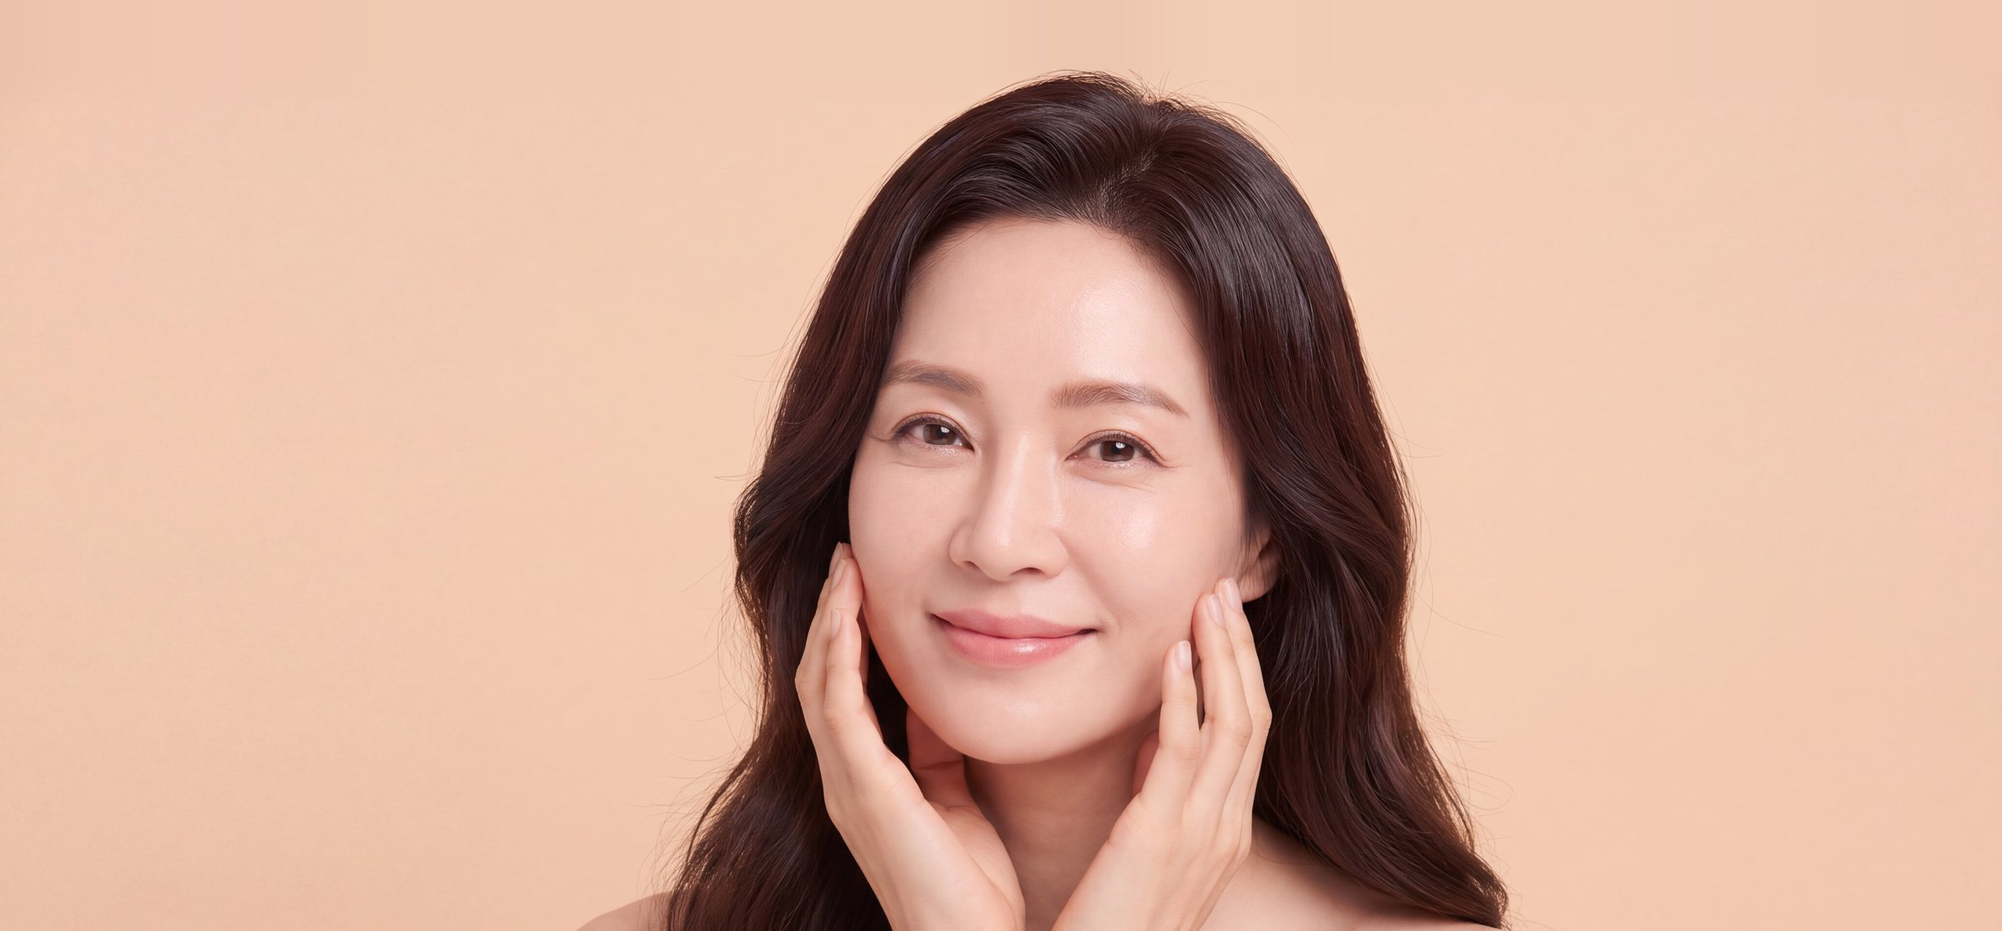
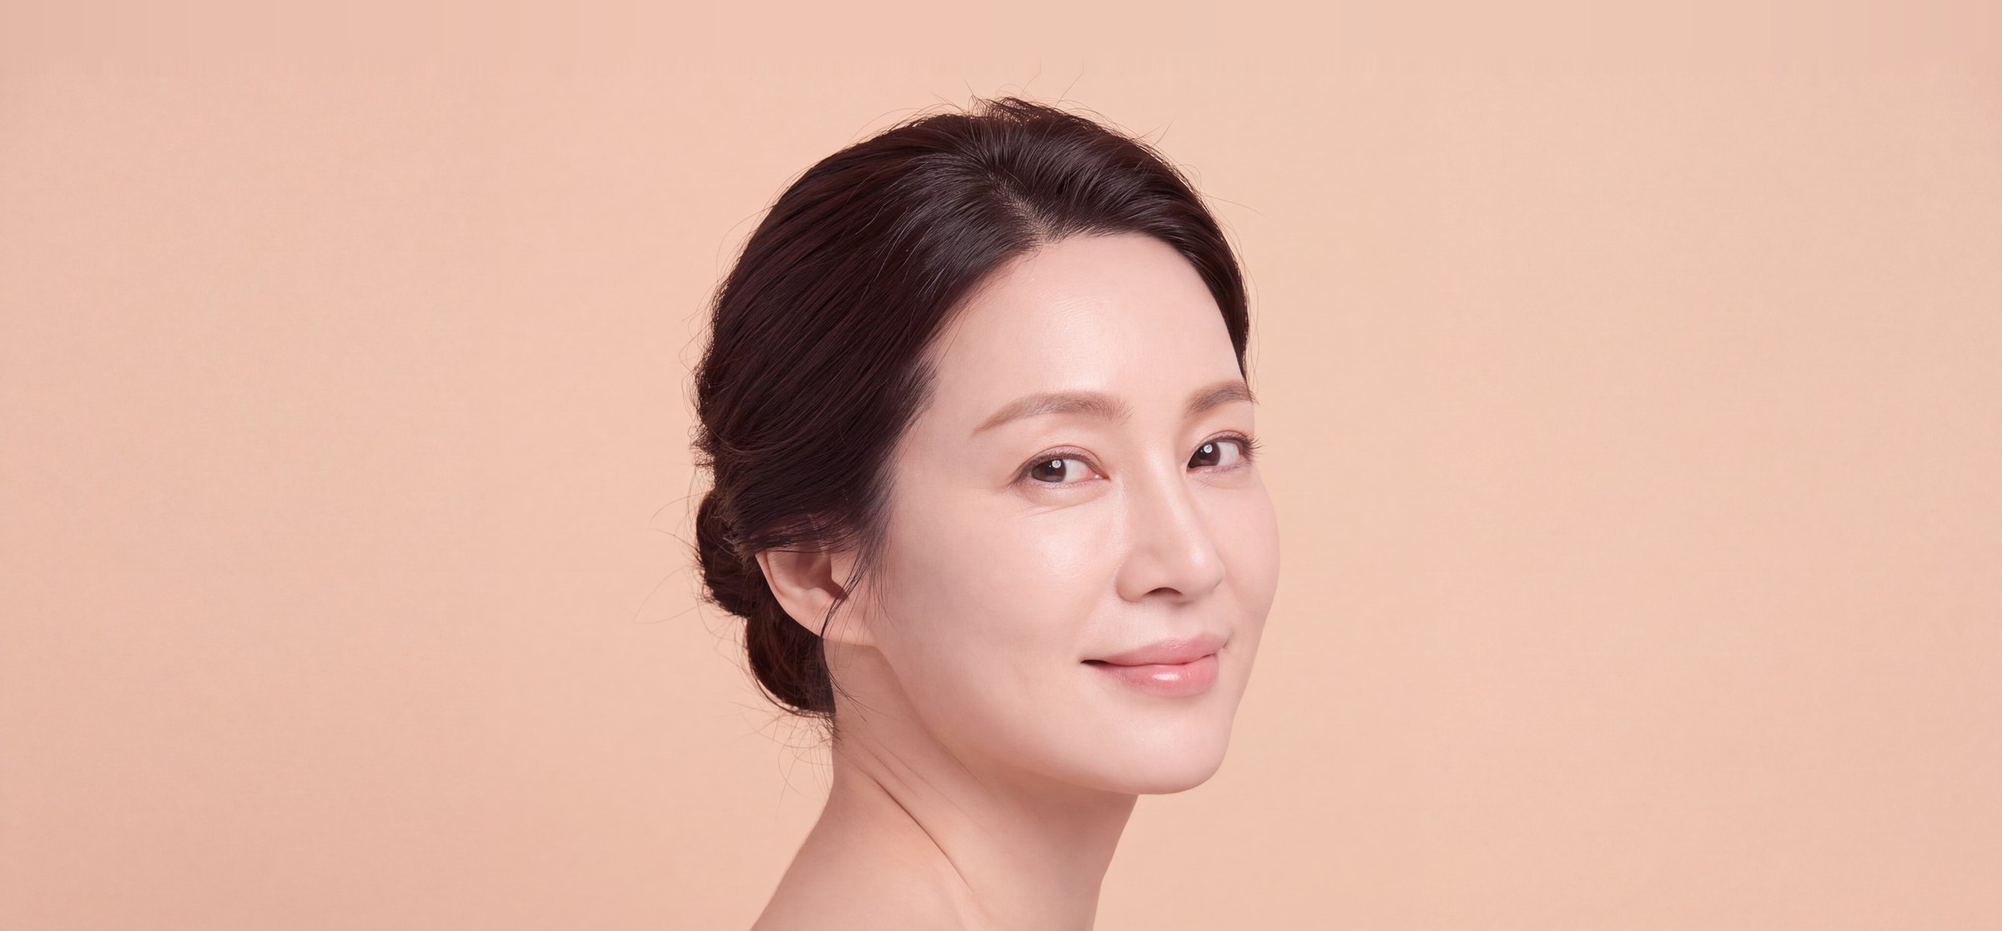
3D 디바이스 긁힘 제거(위치 기반 재질), 모델 컷 이미지생성3으로 교체

Changed region(s): [[0.2812, 0.0609, 0.7812, 1.0]]

diff --git a/js/device-material.js b/js/device-material.js
@@ -1,0 +1,62 @@
+/* =========================================================
+   TechFit 3D 재질 정리
+   Meshy 텍스처는 조각마다 명암·긁힘이 구워져 있어 돌릴 때 상처처럼 보인다.
+   그래서 색·광택을 텍스처 대신 '기기 표면 위치'로 정한다.
+     · 헤드(위쪽 캡) · 정면 버튼 패널과 은색 띠 · 뒷면 띠 → 은색 금속
+     · 정면 화면, 버튼 아이콘                         → 원본 텍스처 그대로
+     · 나머지 본체                                      → 균일한 흰색
+   위치 기준은 모델 높이를 -1~1로 본 값 (tools/repaint_glb.py와 같은 수치).
+   ========================================================= */
+export function cleanDeviceMaterial(model, THREE) {
+  const box = new THREE.Box3().setFromObject(model);
+  const half = (box.max.y - box.min.y) / 2;
+  const cy = (box.max.y + box.min.y) / 2;
+
+  model.traverse(o => {
+    if (!o.isMesh) return;
+    const m = o.material;
+    m.normalMap = null;           /* 조각 테두리가 새겨진 노멀맵은 끈다 */
+    m.metalnessMap = null;
+    m.roughnessMap = null;
+    m.metalness = 1; m.roughness = 1;
+    m.onBeforeCompile = sh => {
+      sh.uniforms.uHalf = { value: half };
+      sh.uniforms.uCy = { value: cy };
+      sh.vertexShader = sh.vertexShader
+        .replace('#include <common>', '#include <common>\nvarying vec3 vObj;')
+        .replace('#include <begin_vertex>', '#include <begin_vertex>\nvObj = position;');
+      sh.fragmentShader = sh.fragmentShader
+        .replace('#include <common>', `#include <common>
+varying vec3 vObj;
+uniform float uHalf, uCy;
+float gSilver, gScreen;
+float band(float v, float lo, float hi, float e) { return smoothstep(lo - e, lo + e, v) * (1.0 - smoothstep(hi - e, hi + e, v)); }`)
+        .replace('#include <map_fragment>', `#include <map_fragment>
+{
+  float e = 0.006;
+  float y = (vObj.y - uCy) / uHalf;                    /* -1 아래 끝 ~ 1 위 끝 */
+  float a = abs(atan(vObj.x, vObj.z)) / PI;           /* 0 정면 가운데 ~ 1 뒷면 가운데 */
+  float head = smoothstep(0.6875 - e, 0.6875 + e, y);
+  float screen = (1.0 - smoothstep(0.133 - e, 0.133 + e, a)) * band(y, 0.344, 0.667, e) * (1.0 - head);
+  float hw = y >= 0.139 ? 0.135 : 0.042 + 0.093 * smoothstep(0.0, 0.139, y);
+  float front = (1.0 - smoothstep(hw - e, hw + e, a)) * (1.0 - head) * (1.0 - screen);
+  float back = smoothstep(0.96 - e, 0.96 + e, a) * (1.0 - head);
+  float silver = clamp(head + front + back, 0.0, 1.0);
+  float white = clamp(1.0 - silver - screen, 0.0, 1.0);
+  float texL = dot(diffuseColor.rgb, vec3(0.3333));
+  float icon = front * step(0.139, y) * (1.0 - smoothstep(0.15, 0.4, texL));    /* 버튼 아이콘 선 */
+  /* 'TECH FIT' 세로 글자 — 아래쪽, 정면·뒷면 띠 오른쪽 */
+  float zone = band(y, -0.87, -0.61, 0.02) * max(band(a, 0.03, 0.18, 0.015), band(a, 0.8, 0.95, 0.015));
+  float text = zone * white * (1.0 - smoothstep(0.5, 0.8, texL));
+  vec3 col = white * vec3(0.855, 0.855, 0.84) + silver * vec3(0.55, 0.56, 0.58);
+  diffuseColor.rgb = mix(col, diffuseColor.rgb * 0.45, clamp(icon + text, 0.0, 1.0));
+  diffuseColor.rgb = mix(diffuseColor.rgb, sampledDiffuseColor.rgb, screen);
+  gSilver = silver * (1.0 - icon); gScreen = screen;
+}`)
+        .replace('#include <metalnessmap_fragment>', `#include <metalnessmap_fragment>
+metalnessFactor = gSilver * 0.85;
+roughnessFactor = mix(mix(0.34, 0.28, gSilver), 0.12, gScreen);`);
+    };
+    m.needsUpdate = true;
+  });
+}

diff --git a/index.html b/index.html
@@ -9,7 +9,7 @@
 <link rel="preload" href="fonts/metropolis-latin-500-normal.woff2" as="font" type="font/woff2" crossorigin>
 <link rel="preload" href="fonts/urbanist-latin-400-normal.woff2" as="font" type="font/woff2" crossorigin>
 <link rel="stylesheet" href="https://cdn.jsdelivr.net/gh/orioncactus/pretendard@v1.3.9/dist/web/static/pretendard.min.css">
-<link rel="stylesheet" href="css/stem.css?v=261016041408">
+<link rel="stylesheet" href="css/stem.css?v=261016042925">
 <script type="importmap">{"imports":{"three":"./libs/three/three.module.min.js"}}</script>
 </head>
 <body>
@@ -43,8 +43,8 @@
 
   <!-- 01 상단 배너 -->
   <section class="hero" aria-label="메인 영상">
-    <img class="hero__poster" src="assets/img/main-film-poster.jpg?v=261016041408" alt="">
-    <video class="hero__video" src="assets/video/main-film.mp4?v=261016041408" poster="assets/img/main-film-poster.jpg?v=261016041408"
+    <img class="hero__poster" src="assets/img/main-film-poster.jpg?v=261016042925" alt="">
+    <video class="hero__video" src="assets/video/main-film.mp4?v=261016042925" poster="assets/img/main-film-poster.jpg?v=261016042925"
            autoplay muted loop playsinline preload="metadata" aria-hidden="true"></video>
     <div class="hero__copy">
       <p class="hero__eyebrow">Anti-Aging Skincare</p>
@@ -162,7 +162,7 @@
   <!-- 05 환기용 이미지 -->
   <section class="sys" data-led="yellow" aria-labelledby="sys-title">
     <div class="sys__img">
-      <img src="assets/img/m-model.jpg" alt="양손으로 얼굴을 감싼 케어클 모델" loading="lazy" width="2400" height="1116" data-zoom>
+      <img src="assets/img/m-model.jpg?v=261016042925" alt="고개를 돌려 미소 짓는 케어클 모델" loading="lazy" width="2400" height="1116" data-zoom>
       <div class="sys__copy">
         <p class="sys__title rv" id="sys-title"><span class="sys__en">Clinic-level care,</span><span class="sys__kr">집 안의 리추얼로</span></p>
       </div>
@@ -267,7 +267,7 @@
 
   <!-- 08 샵 링크 (스크롤하면 높이가 화면 가득) -->
   <section class="shop" data-shop data-led="red">
-    <div class="shop__bg"><img src="assets/img/m-model-set.jpg" alt="TechFit 풀세트와 디바이스를 든 모델" loading="lazy"></div>
+    <div class="shop__bg"><img src="assets/img/m-model-set.jpg?v=261016042925" alt="TechFit 풀세트와 디바이스를 든 모델" loading="lazy"></div>
     <div class="wrap shop__inner">
       <div>
         <h2 class="shop__title">Shop the Official Store</h2>
@@ -336,8 +336,8 @@
   </div>
 </footer>
 <a class="aifab" href="survey.html" aria-label="AI 피부 진단 시작하기"><span class="aifab__ico"><svg viewBox="0 0 24 24" fill="none" aria-hidden="true"><path d="M12 2.2 14 8.4 20.2 10.4 14 12.4 12 18.6 10 12.4 3.8 10.4 10 8.4Z" fill="currentColor"/><circle cx="19.4" cy="4.2" r="1.7" fill="currentColor" opacity=".9"/><circle cx="4.8" cy="18.4" r="1.2" fill="currentColor" opacity=".7"/></svg></span><span class="aifab__txt">AI 피부 진단</span></a>
-<script src="js/led.js?v=261016041408"></script>
-<script src="js/stem.js?v=261016041408"></script>
-<script type="module" src="js/device3d.js?v=261016041408"></script>
+<script src="js/led.js?v=261016042925"></script>
+<script src="js/stem.js?v=261016042925"></script>
+<script type="module" src="js/device3d.js?v=261016042925"></script>
 </body>
 </html>

diff --git a/survey.html b/survey.html
@@ -9,10 +9,10 @@
 <link rel="preload" href="fonts/metropolis-latin-500-normal.woff2" as="font" type="font/woff2" crossorigin>
 <link rel="preload" href="fonts/urbanist-latin-400-normal.woff2" as="font" type="font/woff2" crossorigin>
 <link rel="stylesheet" href="https://cdn.jsdelivr.net/gh/orioncactus/pretendard@v1.3.9/dist/web/static/pretendard.min.css">
-<link rel="stylesheet" href="css/stem.css?v=261016041408">
-<link rel="stylesheet" href="css/bridge.css?v=261016041408">
-<link rel="stylesheet" href="css/survey.css?v=261016041408">
-<link rel="stylesheet" href="css/report.css?v=261016041408">
+<link rel="stylesheet" href="css/stem.css?v=261016042925">
+<link rel="stylesheet" href="css/bridge.css?v=261016042925">
+<link rel="stylesheet" href="css/survey.css?v=261016042925">
+<link rel="stylesheet" href="css/report.css?v=261016042925">
 <script type="importmap">{"imports":{"three":"./libs/three/three.module.min.js"}}</script>
 </head>
 <body class="survey">
@@ -73,9 +73,9 @@
   </div>
 </footer>
 <a class="aifab" href="survey.html" aria-label="AI 피부 진단 시작하기"><span class="aifab__ico"><svg viewBox="0 0 24 24" fill="none" aria-hidden="true"><path d="M12 2.2 14 8.4 20.2 10.4 14 12.4 12 18.6 10 12.4 3.8 10.4 10 8.4Z" fill="currentColor"/><circle cx="19.4" cy="4.2" r="1.7" fill="currentColor" opacity=".9"/><circle cx="4.8" cy="18.4" r="1.2" fill="currentColor" opacity=".7"/></svg></span><span class="aifab__txt">AI 피부 진단</span></a>
-<script src="js/led.js?v=261016041408"></script>
-<script src="js/stem.js?v=261016041408"></script>
-<script src="js/report.js?v=261016041408"></script>
-<script src="js/survey.js?v=261016041408"></script>
+<script src="js/led.js?v=261016042925"></script>
+<script src="js/stem.js?v=261016042925"></script>
+<script src="js/report.js?v=261016042925"></script>
+<script src="js/survey.js?v=261016042925"></script>
 </body>
 </html>

diff --git a/report.html b/report.html
@@ -9,10 +9,10 @@
 <link rel="preload" href="fonts/metropolis-latin-500-normal.woff2" as="font" type="font/woff2" crossorigin>
 <link rel="preload" href="fonts/urbanist-latin-400-normal.woff2" as="font" type="font/woff2" crossorigin>
 <link rel="stylesheet" href="https://cdn.jsdelivr.net/gh/orioncactus/pretendard@v1.3.9/dist/web/static/pretendard.min.css">
-<link rel="stylesheet" href="css/stem.css?v=261016041408">
-<link rel="stylesheet" href="css/sub.css?v=261016041408">
-<link rel="stylesheet" href="css/bridge.css?v=261016041408">
-<link rel="stylesheet" href="css/report.css?v=261016041408">
+<link rel="stylesheet" href="css/stem.css?v=261016042925">
+<link rel="stylesheet" href="css/sub.css?v=261016042925">
+<link rel="stylesheet" href="css/bridge.css?v=261016042925">
+<link rel="stylesheet" href="css/report.css?v=261016042925">
 <script type="importmap">{"imports":{"three":"./libs/three/three.module.min.js"}}</script>
 </head>
 <body>
@@ -71,9 +71,9 @@
   </div>
 </footer>
 <a class="aifab" href="survey.html" aria-label="AI 피부 진단 시작하기"><span class="aifab__ico"><svg viewBox="0 0 24 24" fill="none" aria-hidden="true"><path d="M12 2.2 14 8.4 20.2 10.4 14 12.4 12 18.6 10 12.4 3.8 10.4 10 8.4Z" fill="currentColor"/><circle cx="19.4" cy="4.2" r="1.7" fill="currentColor" opacity=".9"/><circle cx="4.8" cy="18.4" r="1.2" fill="currentColor" opacity=".7"/></svg></span><span class="aifab__txt">AI 피부 진단</span></a>
-<script src="js/led.js?v=261016041408"></script>
-<script src="js/stem.js?v=261016041408"></script>
-<script src="js/report.js?v=261016041408"></script>
-<script src="js/reportpage.js?v=261016041408"></script>
+<script src="js/led.js?v=261016042925"></script>
+<script src="js/stem.js?v=261016042925"></script>
+<script src="js/report.js?v=261016042925"></script>
+<script src="js/reportpage.js?v=261016042925"></script>
 </body>
 </html>

diff --git a/aging-map.html b/aging-map.html
@@ -9,8 +9,8 @@
 <link rel="preload" href="fonts/metropolis-latin-500-normal.woff2" as="font" type="font/woff2" crossorigin>
 <link rel="preload" href="fonts/urbanist-latin-400-normal.woff2" as="font" type="font/woff2" crossorigin>
 <link rel="stylesheet" href="https://cdn.jsdelivr.net/gh/orioncactus/pretendard@v1.3.9/dist/web/static/pretendard.min.css">
-<link rel="stylesheet" href="css/stem.css?v=261016041408">
-<link rel="stylesheet" href="css/sub.css?v=261016041408">
+<link rel="stylesheet" href="css/stem.css?v=261016042925">
+<link rel="stylesheet" href="css/sub.css?v=261016042925">
 <script type="importmap">{"imports":{"three":"./libs/three/three.module.min.js"}}</script>
 </head>
 <body>
@@ -101,7 +101,7 @@
   </div>
 </footer>
 <a class="aifab" href="survey.html" aria-label="AI 피부 진단 시작하기"><span class="aifab__ico"><svg viewBox="0 0 24 24" fill="none" aria-hidden="true"><path d="M12 2.2 14 8.4 20.2 10.4 14 12.4 12 18.6 10 12.4 3.8 10.4 10 8.4Z" fill="currentColor"/><circle cx="19.4" cy="4.2" r="1.7" fill="currentColor" opacity=".9"/><circle cx="4.8" cy="18.4" r="1.2" fill="currentColor" opacity=".7"/></svg></span><span class="aifab__txt">AI 피부 진단</span></a>
-<script src="js/led.js?v=261016041408"></script>
-<script src="js/stem.js?v=261016041408"></script>
+<script src="js/led.js?v=261016042925"></script>
+<script src="js/stem.js?v=261016042925"></script>
 </body>
 </html>

diff --git a/aging-types.html b/aging-types.html
@@ -9,8 +9,8 @@
 <link rel="preload" href="fonts/metropolis-latin-500-normal.woff2" as="font" type="font/woff2" crossorigin>
 <link rel="preload" href="fonts/urbanist-latin-400-normal.woff2" as="font" type="font/woff2" crossorigin>
 <link rel="stylesheet" href="https://cdn.jsdelivr.net/gh/orioncactus/pretendard@v1.3.9/dist/web/static/pretendard.min.css">
-<link rel="stylesheet" href="css/stem.css?v=261016041408">
-<link rel="stylesheet" href="css/sub.css?v=261016041408">
+<link rel="stylesheet" href="css/stem.css?v=261016042925">
+<link rel="stylesheet" href="css/sub.css?v=261016042925">
 <script type="importmap">{"imports":{"three":"./libs/three/three.module.min.js"}}</script>
 </head>
 <body>
@@ -121,7 +121,7 @@
   </div>
 </footer>
 <a class="aifab" href="survey.html" aria-label="AI 피부 진단 시작하기"><span class="aifab__ico"><svg viewBox="0 0 24 24" fill="none" aria-hidden="true"><path d="M12 2.2 14 8.4 20.2 10.4 14 12.4 12 18.6 10 12.4 3.8 10.4 10 8.4Z" fill="currentColor"/><circle cx="19.4" cy="4.2" r="1.7" fill="currentColor" opacity=".9"/><circle cx="4.8" cy="18.4" r="1.2" fill="currentColor" opacity=".7"/></svg></span><span class="aifab__txt">AI 피부 진단</span></a>
-<script src="js/led.js?v=261016041408"></script>
-<script src="js/stem.js?v=261016041408"></script>
+<script src="js/led.js?v=261016042925"></script>
+<script src="js/stem.js?v=261016042925"></script>
 </body>
 </html>

diff --git a/carecl-technology.html b/carecl-technology.html
@@ -9,8 +9,8 @@
 <link rel="preload" href="fonts/metropolis-latin-500-normal.woff2" as="font" type="font/woff2" crossorigin>
 <link rel="preload" href="fonts/urbanist-latin-400-normal.woff2" as="font" type="font/woff2" crossorigin>
 <link rel="stylesheet" href="https://cdn.jsdelivr.net/gh/orioncactus/pretendard@v1.3.9/dist/web/static/pretendard.min.css">
-<link rel="stylesheet" href="css/stem.css?v=261016041408">
-<link rel="stylesheet" href="css/sub.css?v=261016041408">
+<link rel="stylesheet" href="css/stem.css?v=261016042925">
+<link rel="stylesheet" href="css/sub.css?v=261016042925">
 <script type="importmap">{"imports":{"three":"./libs/three/three.module.min.js"}}</script>
 </head>
 <body>
@@ -146,7 +146,7 @@
   </div>
 </footer>
 <a class="aifab" href="survey.html" aria-label="AI 피부 진단 시작하기"><span class="aifab__ico"><svg viewBox="0 0 24 24" fill="none" aria-hidden="true"><path d="M12 2.2 14 8.4 20.2 10.4 14 12.4 12 18.6 10 12.4 3.8 10.4 10 8.4Z" fill="currentColor"/><circle cx="19.4" cy="4.2" r="1.7" fill="currentColor" opacity=".9"/><circle cx="4.8" cy="18.4" r="1.2" fill="currentColor" opacity=".7"/></svg></span><span class="aifab__txt">AI 피부 진단</span></a>
-<script src="js/led.js?v=261016041408"></script>
-<script src="js/stem.js?v=261016041408"></script>
+<script src="js/led.js?v=261016042925"></script>
+<script src="js/stem.js?v=261016042925"></script>
 </body>
 </html>

diff --git a/greeting.html b/greeting.html
@@ -9,8 +9,8 @@
 <link rel="preload" href="fonts/metropolis-latin-500-normal.woff2" as="font" type="font/woff2" crossorigin>
 <link rel="preload" href="fonts/urbanist-latin-400-normal.woff2" as="font" type="font/woff2" crossorigin>
 <link rel="stylesheet" href="https://cdn.jsdelivr.net/gh/orioncactus/pretendard@v1.3.9/dist/web/static/pretendard.min.css">
-<link rel="stylesheet" href="css/stem.css?v=261016041408">
-<link rel="stylesheet" href="css/sub.css?v=261016041408">
+<link rel="stylesheet" href="css/stem.css?v=261016042925">
+<link rel="stylesheet" href="css/sub.css?v=261016042925">
 <script type="importmap">{"imports":{"three":"./libs/three/three.module.min.js"}}</script>
 </head>
 <body>
@@ -113,7 +113,7 @@
   </div>
 </footer>
 <a class="aifab" href="survey.html" aria-label="AI 피부 진단 시작하기"><span class="aifab__ico"><svg viewBox="0 0 24 24" fill="none" aria-hidden="true"><path d="M12 2.2 14 8.4 20.2 10.4 14 12.4 12 18.6 10 12.4 3.8 10.4 10 8.4Z" fill="currentColor"/><circle cx="19.4" cy="4.2" r="1.7" fill="currentColor" opacity=".9"/><circle cx="4.8" cy="18.4" r="1.2" fill="currentColor" opacity=".7"/></svg></span><span class="aifab__txt">AI 피부 진단</span></a>
-<script src="js/led.js?v=261016041408"></script>
-<script src="js/stem.js?v=261016041408"></script>
+<script src="js/led.js?v=261016042925"></script>
+<script src="js/stem.js?v=261016042925"></script>
 </body>
 </html>

diff --git a/about.html b/about.html
@@ -9,8 +9,8 @@
 <link rel="preload" href="fonts/metropolis-latin-500-normal.woff2" as="font" type="font/woff2" crossorigin>
 <link rel="preload" href="fonts/urbanist-latin-400-normal.woff2" as="font" type="font/woff2" crossorigin>
 <link rel="stylesheet" href="https://cdn.jsdelivr.net/gh/orioncactus/pretendard@v1.3.9/dist/web/static/pretendard.min.css">
-<link rel="stylesheet" href="css/stem.css?v=261016041408">
-<link rel="stylesheet" href="css/sub.css?v=261016041408">
+<link rel="stylesheet" href="css/stem.css?v=261016042925">
+<link rel="stylesheet" href="css/sub.css?v=261016042925">
 <script type="importmap">{"imports":{"three":"./libs/three/three.module.min.js"}}</script>
 </head>
 <body>
@@ -93,7 +93,7 @@
   </div>
 </footer>
 <a class="aifab" href="survey.html" aria-label="AI 피부 진단 시작하기"><span class="aifab__ico"><svg viewBox="0 0 24 24" fill="none" aria-hidden="true"><path d="M12 2.2 14 8.4 20.2 10.4 14 12.4 12 18.6 10 12.4 3.8 10.4 10 8.4Z" fill="currentColor"/><circle cx="19.4" cy="4.2" r="1.7" fill="currentColor" opacity=".9"/><circle cx="4.8" cy="18.4" r="1.2" fill="currentColor" opacity=".7"/></svg></span><span class="aifab__txt">AI 피부 진단</span></a>
-<script src="js/led.js?v=261016041408"></script>
-<script src="js/stem.js?v=261016041408"></script>
+<script src="js/led.js?v=261016042925"></script>
+<script src="js/stem.js?v=261016042925"></script>
 </body>
 </html>

diff --git a/certification.html b/certification.html
@@ -9,8 +9,8 @@
 <link rel="preload" href="fonts/metropolis-latin-500-normal.woff2" as="font" type="font/woff2" crossorigin>
 <link rel="preload" href="fonts/urbanist-latin-400-normal.woff2" as="font" type="font/woff2" crossorigin>
 <link rel="stylesheet" href="https://cdn.jsdelivr.net/gh/orioncactus/pretendard@v1.3.9/dist/web/static/pretendard.min.css">
-<link rel="stylesheet" href="css/stem.css?v=261016041408">
-<link rel="stylesheet" href="css/sub.css?v=261016041408">
+<link rel="stylesheet" href="css/stem.css?v=261016042925">
+<link rel="stylesheet" href="css/sub.css?v=261016042925">
 <script type="importmap">{"imports":{"three":"./libs/three/three.module.min.js"}}</script>
 </head>
 <body>
@@ -80,7 +80,7 @@
   </div>
 </footer>
 <a class="aifab" href="survey.html" aria-label="AI 피부 진단 시작하기"><span class="aifab__ico"><svg viewBox="0 0 24 24" fill="none" aria-hidden="true"><path d="M12 2.2 14 8.4 20.2 10.4 14 12.4 12 18.6 10 12.4 3.8 10.4 10 8.4Z" fill="currentColor"/><circle cx="19.4" cy="4.2" r="1.7" fill="currentColor" opacity=".9"/><circle cx="4.8" cy="18.4" r="1.2" fill="currentColor" opacity=".7"/></svg></span><span class="aifab__txt">AI 피부 진단</span></a>
-<script src="js/led.js?v=261016041408"></script>
-<script src="js/stem.js?v=261016041408"></script>
+<script src="js/led.js?v=261016042925"></script>
+<script src="js/stem.js?v=261016042925"></script>
 </body>
 </html>

diff --git a/contact.html b/contact.html
@@ -9,8 +9,8 @@
 <link rel="preload" href="fonts/metropolis-latin-500-normal.woff2" as="font" type="font/woff2" crossorigin>
 <link rel="preload" href="fonts/urbanist-latin-400-normal.woff2" as="font" type="font/woff2" crossorigin>
 <link rel="stylesheet" href="https://cdn.jsdelivr.net/gh/orioncactus/pretendard@v1.3.9/dist/web/static/pretendard.min.css">
-<link rel="stylesheet" href="css/stem.css?v=261016041408">
-<link rel="stylesheet" href="css/sub.css?v=261016041408">
+<link rel="stylesheet" href="css/stem.css?v=261016042925">
+<link rel="stylesheet" href="css/sub.css?v=261016042925">
 <script type="importmap">{"imports":{"three":"./libs/three/three.module.min.js"}}</script>
 </head>
 <body>
@@ -93,7 +93,7 @@
   </div>
 </footer>
 <a class="aifab" href="survey.html" aria-label="AI 피부 진단 시작하기"><span class="aifab__ico"><svg viewBox="0 0 24 24" fill="none" aria-hidden="true"><path d="M12 2.2 14 8.4 20.2 10.4 14 12.4 12 18.6 10 12.4 3.8 10.4 10 8.4Z" fill="currentColor"/><circle cx="19.4" cy="4.2" r="1.7" fill="currentColor" opacity=".9"/><circle cx="4.8" cy="18.4" r="1.2" fill="currentColor" opacity=".7"/></svg></span><span class="aifab__txt">AI 피부 진단</span></a>
-<script src="js/led.js?v=261016041408"></script>
-<script src="js/stem.js?v=261016041408"></script>
+<script src="js/led.js?v=261016042925"></script>
+<script src="js/stem.js?v=261016042925"></script>
 </body>
 </html>

diff --git a/cosmetics.html b/cosmetics.html
@@ -9,8 +9,8 @@
 <link rel="preload" href="fonts/metropolis-latin-500-normal.woff2" as="font" type="font/woff2" crossorigin>
 <link rel="preload" href="fonts/urbanist-latin-400-normal.woff2" as="font" type="font/woff2" crossorigin>
 <link rel="stylesheet" href="https://cdn.jsdelivr.net/gh/orioncactus/pretendard@v1.3.9/dist/web/static/pretendard.min.css">
-<link rel="stylesheet" href="css/stem.css?v=261016041408">
-<link rel="stylesheet" href="css/sub.css?v=261016041408">
+<link rel="stylesheet" href="css/stem.css?v=261016042925">
+<link rel="stylesheet" href="css/sub.css?v=261016042925">
 <script type="importmap">{"imports":{"three":"./libs/three/three.module.min.js"}}</script>
 </head>
 <body>
@@ -93,7 +93,7 @@
   </div>
 </footer>
 <a class="aifab" href="survey.html" aria-label="AI 피부 진단 시작하기"><span class="aifab__ico"><svg viewBox="0 0 24 24" fill="none" aria-hidden="true"><path d="M12 2.2 14 8.4 20.2 10.4 14 12.4 12 18.6 10 12.4 3.8 10.4 10 8.4Z" fill="currentColor"/><circle cx="19.4" cy="4.2" r="1.7" fill="currentColor" opacity=".9"/><circle cx="4.8" cy="18.4" r="1.2" fill="currentColor" opacity=".7"/></svg></span><span class="aifab__txt">AI 피부 진단</span></a>
-<script src="js/led.js?v=261016041408"></script>
-<script src="js/stem.js?v=261016041408"></script>
+<script src="js/led.js?v=261016042925"></script>
+<script src="js/stem.js?v=261016042925"></script>
 </body>
 </html>
